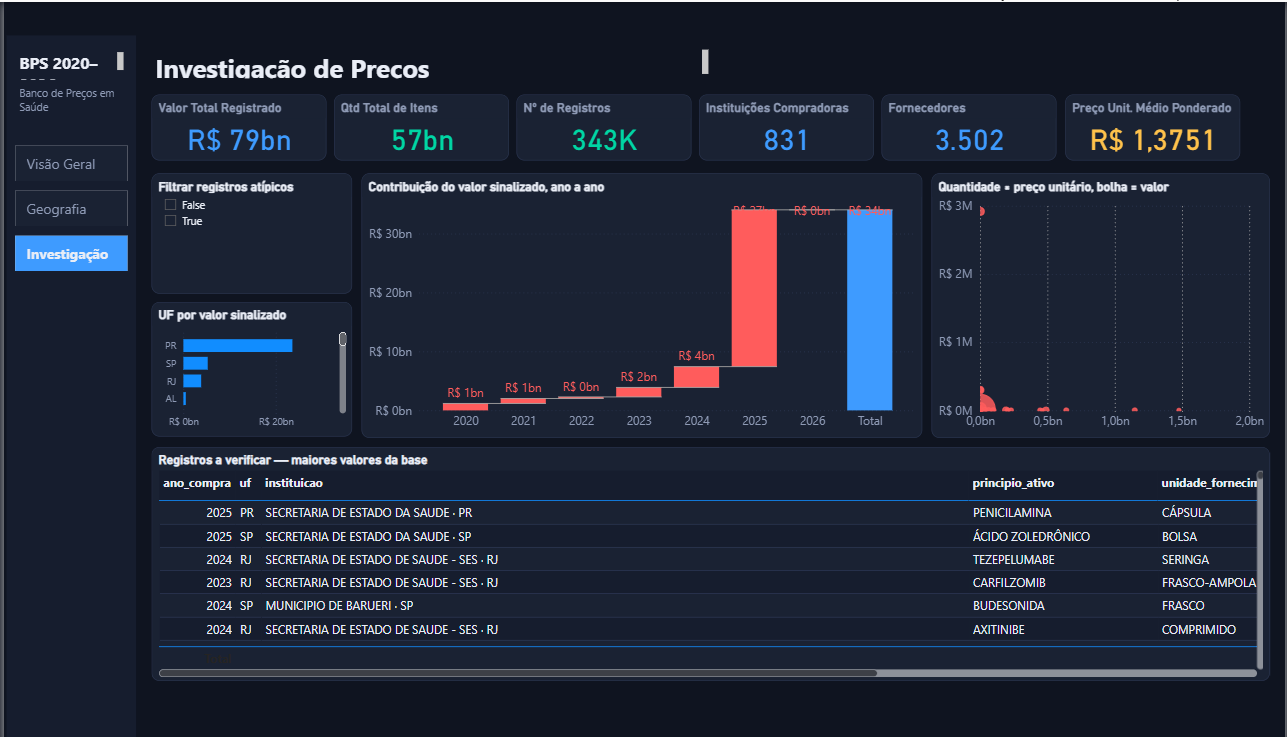
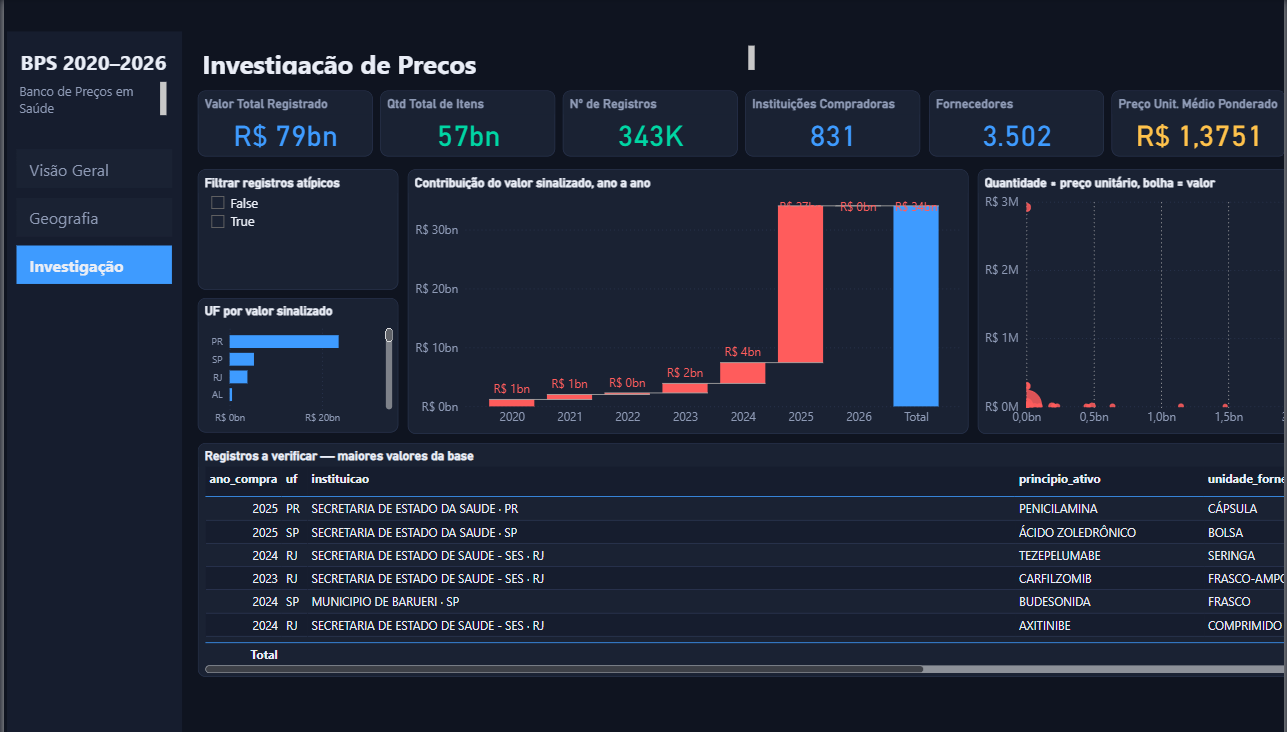
fix: corrige estouro da tela, rotulos de instituicao e altura da arvore

diff --git a/src/gerar_dashboard.py b/src/gerar_dashboard.py
@@ -29,7 +29,10 @@ S_PAGES = "https://developer.microsoft.com/json-schemas/fabric/item/report/defin
 S_PAGE = "https://developer.microsoft.com/json-schemas/fabric/item/report/definition/page/2.0.0/schema.json"
 S_VISUAL = "https://developer.microsoft.com/json-schemas/fabric/item/report/definition/visualContainer/2.2.0/schema.json"
 
-L, A = 1600, 900          # canvas widescreen
+# O trilho passou de 168 para 226px; o conteudo mantem a mesma largura, entao
+# a tela precisa crescer os mesmos 58px, senao o ultimo cartao de cada linha
+# fica cortado na borda direita.
+L, A = 1660, 900          # canvas widescreen
 RAIL_W = 226              # trilho de navegação — largo o bastante para o título
                           # não sair cortado em "BPS 2020–"
 
@@ -126,12 +129,15 @@ def moldura(titulo: str | None, cor_titulo: str = TINTA) -> dict:
 def eixos(rotulos=False, rot_cor=TINTA2) -> dict:
     return {
         "categoryAxis": o(show=bol(True), showAxisTitle=bol(False), fontSize=num(11),
-                          labelColor=cor(TINTA2)),
+                          labelColor=cor(TINTA2),
+                          # Sem isto o Power BI reserva so 25% da largura para
+                          # os rotulos e quatro barras viram "SECRETARIA ...".
+                          maxMarginFactor=num(45)),
         "valueAxis": o(show=bol(True), showAxisTitle=bol(False), fontSize=num(11),
                        labelColor=cor(TINTA2), gridlineShow=bol(True),
                        gridlineColor=cor(BORDA), gridlineThickness=num(1)),
         "labels": o(show=bol(rotulos), fontSize=num(11), color=cor(rot_cor)),
-        "legend": o(show=bol(False)),
+        "legend": o(show=bol(False), showTitle=bol(False)),
     }
 
 
@@ -308,7 +314,8 @@ def pagina1() -> list:
                 "Y": [proj(med("Valor Total Registrado"), f"{TABELA}.Valor Total Registrado")]},
                "Valor por ano e modalidade de compra",
                {**eixos(), "legend": o(show=bol(True), position=txt("Bottom"),
-                                       fontSize=num(11), labelColor=cor(TINTA2))}),
+                                       fontSize=num(11), labelColor=cor(TINTA2),
+                                       showTitle=bol(False))}),
         visual("preco_ano", "areaChart", x0 + 712, 182, 684, 300,
                {"Category": [proj(col(CAL, "Ano"), f"{CAL}.Ano")],
                 "Y": [proj(med("Preço Unit. Médio Ponderado"), f"{TABELA}.Preço Unit. Médio Ponderado")]},
@@ -328,8 +335,8 @@ def pagina1() -> list:
                {"Category": [proj(col(TABELA, "tipo_produto"), f"{TABELA}.tipo_produto")],
                 "Y": [proj(med("Nº de Registros"), f"{TABELA}.Nº de Registros")]},
                "Registros por tipo de produto",
-               {"legend": o(show=bol(True), position=txt("Bottom"), fontSize=num(9),
-                            labelColor=cor(TINTA2)),
+               {"legend": o(show=bol(True), position=txt("Bottom"), fontSize=num(11),
+                            labelColor=cor(TINTA2), showTitle=bol(False)),
                 "labels": o(show=bol(True), fontSize=num(11), color=cor(TINTA)),
                 "slices": o(innerRadiusRatio=num(60))}),
         visual("barras_tipocompra", "clusteredBarChart", x0 + 1060, 494, 336, 322,
@@ -347,7 +354,7 @@ def pagina2() -> list:
     vs = trilho(1) + faixa_kpis("p2")
     vs.append(rotulo_texto("t2", "Geografia e Instituições", x0, 24, 700, 46, 24))
     vs += [
-        visual("arvore", "decompositionTreeVisual", x0, 182, 700, 330,
+        visual("arvore", "decompositionTreeVisual", x0, 182, 700, 372,
                # Os papéis da árvore são "Analyze" e "ExplainBy" — com
                # "Analysis"/"Group" o visual carrega mas exibe
                # "No field to analyze".
@@ -357,34 +364,34 @@ def pagina2() -> list:
                               proj(col(TABELA, "instituicao"), f"{TABELA}.instituicao")]},
                "Clique para abrir região, UF e instituição",
                {}),
-        visual("barras_uf", "clusteredBarChart", x0 + 712, 182, 342, 330,
+        visual("barras_uf", "clusteredBarChart", x0 + 712, 182, 342, 372,
                {"Category": [proj(col(TABELA, "uf"), f"{TABELA}.uf")],
                 "Y": [proj(med("Valor Total Registrado"), f"{TABELA}.Valor Total Registrado")]},
                "Valor por UF — 24 de 27, sem AM, AP e DF",
                {**eixos(), "dataPoint": o(fill=grad("Valor Total Registrado", AZUL_ESC, AZUL))},
                sort_med="Valor Total Registrado"),
-        visual("donut_esfera", "donutChart", x0 + 1066, 182, 330, 330,
+        visual("donut_esfera", "donutChart", x0 + 1066, 182, 330, 372,
                {"Category": [proj(col(TABELA, "esfera"), f"{TABELA}.esfera")],
                 "Y": [proj(med("Valor Total Registrado"), f"{TABELA}.Valor Total Registrado")]},
                "Valor por esfera de governo",
-               {"legend": o(show=bol(True), position=txt("Bottom"), fontSize=num(9),
-                            labelColor=cor(TINTA2)),
+               {"legend": o(show=bol(True), position=txt("Bottom"), fontSize=num(11),
+                            labelColor=cor(TINTA2), showTitle=bol(False)),
                 "labels": o(show=bol(True), fontSize=num(11), color=cor(TINTA)),
                 "slices": o(innerRadiusRatio=num(60))}),
-        visual("barras_municipio", "clusteredBarChart", x0, 524, 460, 292,
+        visual("barras_municipio", "clusteredBarChart", x0, 566, 460, 268,
                {"Category": [proj(col(TABELA, "municipio_instituicao"), f"{TABELA}.municipio_instituicao")],
                 "Y": [proj(med("Valor Total Registrado"), f"{TABELA}.Valor Total Registrado")]},
                "Top 10 municípios",
                {**eixos(), "dataPoint": o(fill=grad("Valor Total Registrado", AZUL_ESC, AZUL))},
                sort_med="Valor Total Registrado", topn=10,
                cat=(TABELA, "municipio_instituicao")),
-        visual("barras_instituicao", "clusteredBarChart", x0 + 472, 524, 460, 292,
+        visual("barras_instituicao", "clusteredBarChart", x0 + 472, 566, 460, 268,
                {"Category": [proj(col(TABELA, "instituicao"), f"{TABELA}.instituicao")],
                 "Y": [proj(med("Valor Total Registrado"), f"{TABELA}.Valor Total Registrado")]},
                "Top 10 instituições compradoras",
                {**eixos(), "dataPoint": o(fill=grad("Valor Total Registrado", AZUL_ESC, AZUL))},
                sort_med="Valor Total Registrado", topn=10, cat=(TABELA, "instituicao")),
-        visual("barras_fornecedor", "clusteredBarChart", x0 + 944, 524, 452, 292,
+        visual("barras_fornecedor", "clusteredBarChart", x0 + 944, 566, 452, 268,
                {"Category": [proj(col(TABELA, "fornecedor"), f"{TABELA}.fornecedor")],
                 "Y": [proj(med("Valor Total Registrado"), f"{TABELA}.Valor Total Registrado")]},
                "Top 10 fornecedores",
@@ -404,14 +411,14 @@ def pagina3() -> list:
                "Filtrar registros atípicos",
                {"items": o(fontColor=cor(TINTA), fontSize=num(12)),
                 "header": o(show=bol(False))}),
-        visual("cascata", "waterfallChart", x0 + 262, 182, 700, 330,
+        visual("cascata", "waterfallChart", x0 + 262, 182, 700, 360,
                {"Category": [proj(col(CAL, "Ano"), f"{CAL}.Ano")],
                 "Y": [proj(med("Valor Registros Atípicos"), f"{TABELA}.Valor Registros Atípicos")]},
                "Contribuição do valor sinalizado, ano a ano",
                {**eixos(True, VERMELHO),
                 "sentimentColors": o(increaseFill=cor(VERMELHO), decreaseFill=cor(TEAL),
                                      totalFill=cor(AZUL))}),
-        visual("dispersao", "scatterChart", x0 + 974, 182, 422, 330,
+        visual("dispersao", "scatterChart", x0 + 974, 182, 422, 360,
                {"Category": [proj(col(TABELA, "principio_ativo"), f"{TABELA}.principio_ativo")],
                 "X": [proj(med("Qtd Total de Itens"), f"{TABELA}.Qtd Total de Itens")],
                 "Y": [proj(med("Preço Unit. Médio Ponderado"), f"{TABELA}.Preço Unit. Médio Ponderado")],
@@ -421,14 +428,14 @@ def pagina3() -> list:
                 "fillPoint": o(show=bol(True))},
                sort_med="Valor Total Registrado", topn=40,
                cat=(TABELA, "principio_ativo")),
-        visual("barras_atipico_produto", "clusteredBarChart", x0, 344, 250, 168,
+        visual("barras_atipico_produto", "clusteredBarChart", x0, 344, 250, 198,
                {"Category": [proj(col(TABELA, "uf"), f"{TABELA}.uf")],
                 "Y": [proj(med("Valor Registros Atípicos"), f"{TABELA}.Valor Registros Atípicos")]},
                "UF por valor sinalizado",
                {**eixos(), "dataPoint": o(fill=grad("Valor Registros Atípicos",
                                                     VERMELHO_ESC, VERMELHO))},
                sort_med="Valor Registros Atípicos"),
-        visual("tabela", "tableEx", x0, 524, 1396, 292,
+        visual("tabela", "tableEx", x0, 556, 1396, 280,
                {"Values": [
                    proj(col(TABELA, "ano_compra"), f"{TABELA}.ano_compra"),
                    proj(col(TABELA, "uf"), f"{TABELA}.uf"),
@@ -573,7 +580,27 @@ def main() -> None:
             escrever(base / "visuals" / v["name"] / "visual.json", v)
             total += 1
 
+    conferir_geometria()
     print(f"canvas {L}x{A} escuro, {len(PAGINAS)} páginas, {total} visuais")
+
+
+def conferir_geometria() -> None:
+    """Falha se algum visual passar da borda da tela.
+
+    Alargar o trilho sem encolher o conteúdo empurrou tudo para fora da tela
+    e cortou o último cartão de cada linha nas três páginas. O erro só
+    apareceu nas capturas; esta checagem o pega antes.
+    """
+    estouros = []
+    for f in (DEF / "pages").rglob("visual.json"):
+        p = json.loads(f.read_text(encoding="utf-8"))["position"]
+        if p["x"] + p["width"] > L or p["y"] + p["height"] > A:
+            estouros.append(
+                f'{f.parent.name}: termina em '
+                f'({p["x"] + p["width"]}, {p["y"] + p["height"]}) '
+                f'numa tela de {L}x{A}')
+    if estouros:
+        raise SystemExit("Visuais fora da tela:\n  - " + "\n  - ".join(estouros))
 
 
 if __name__ == "__main__":
